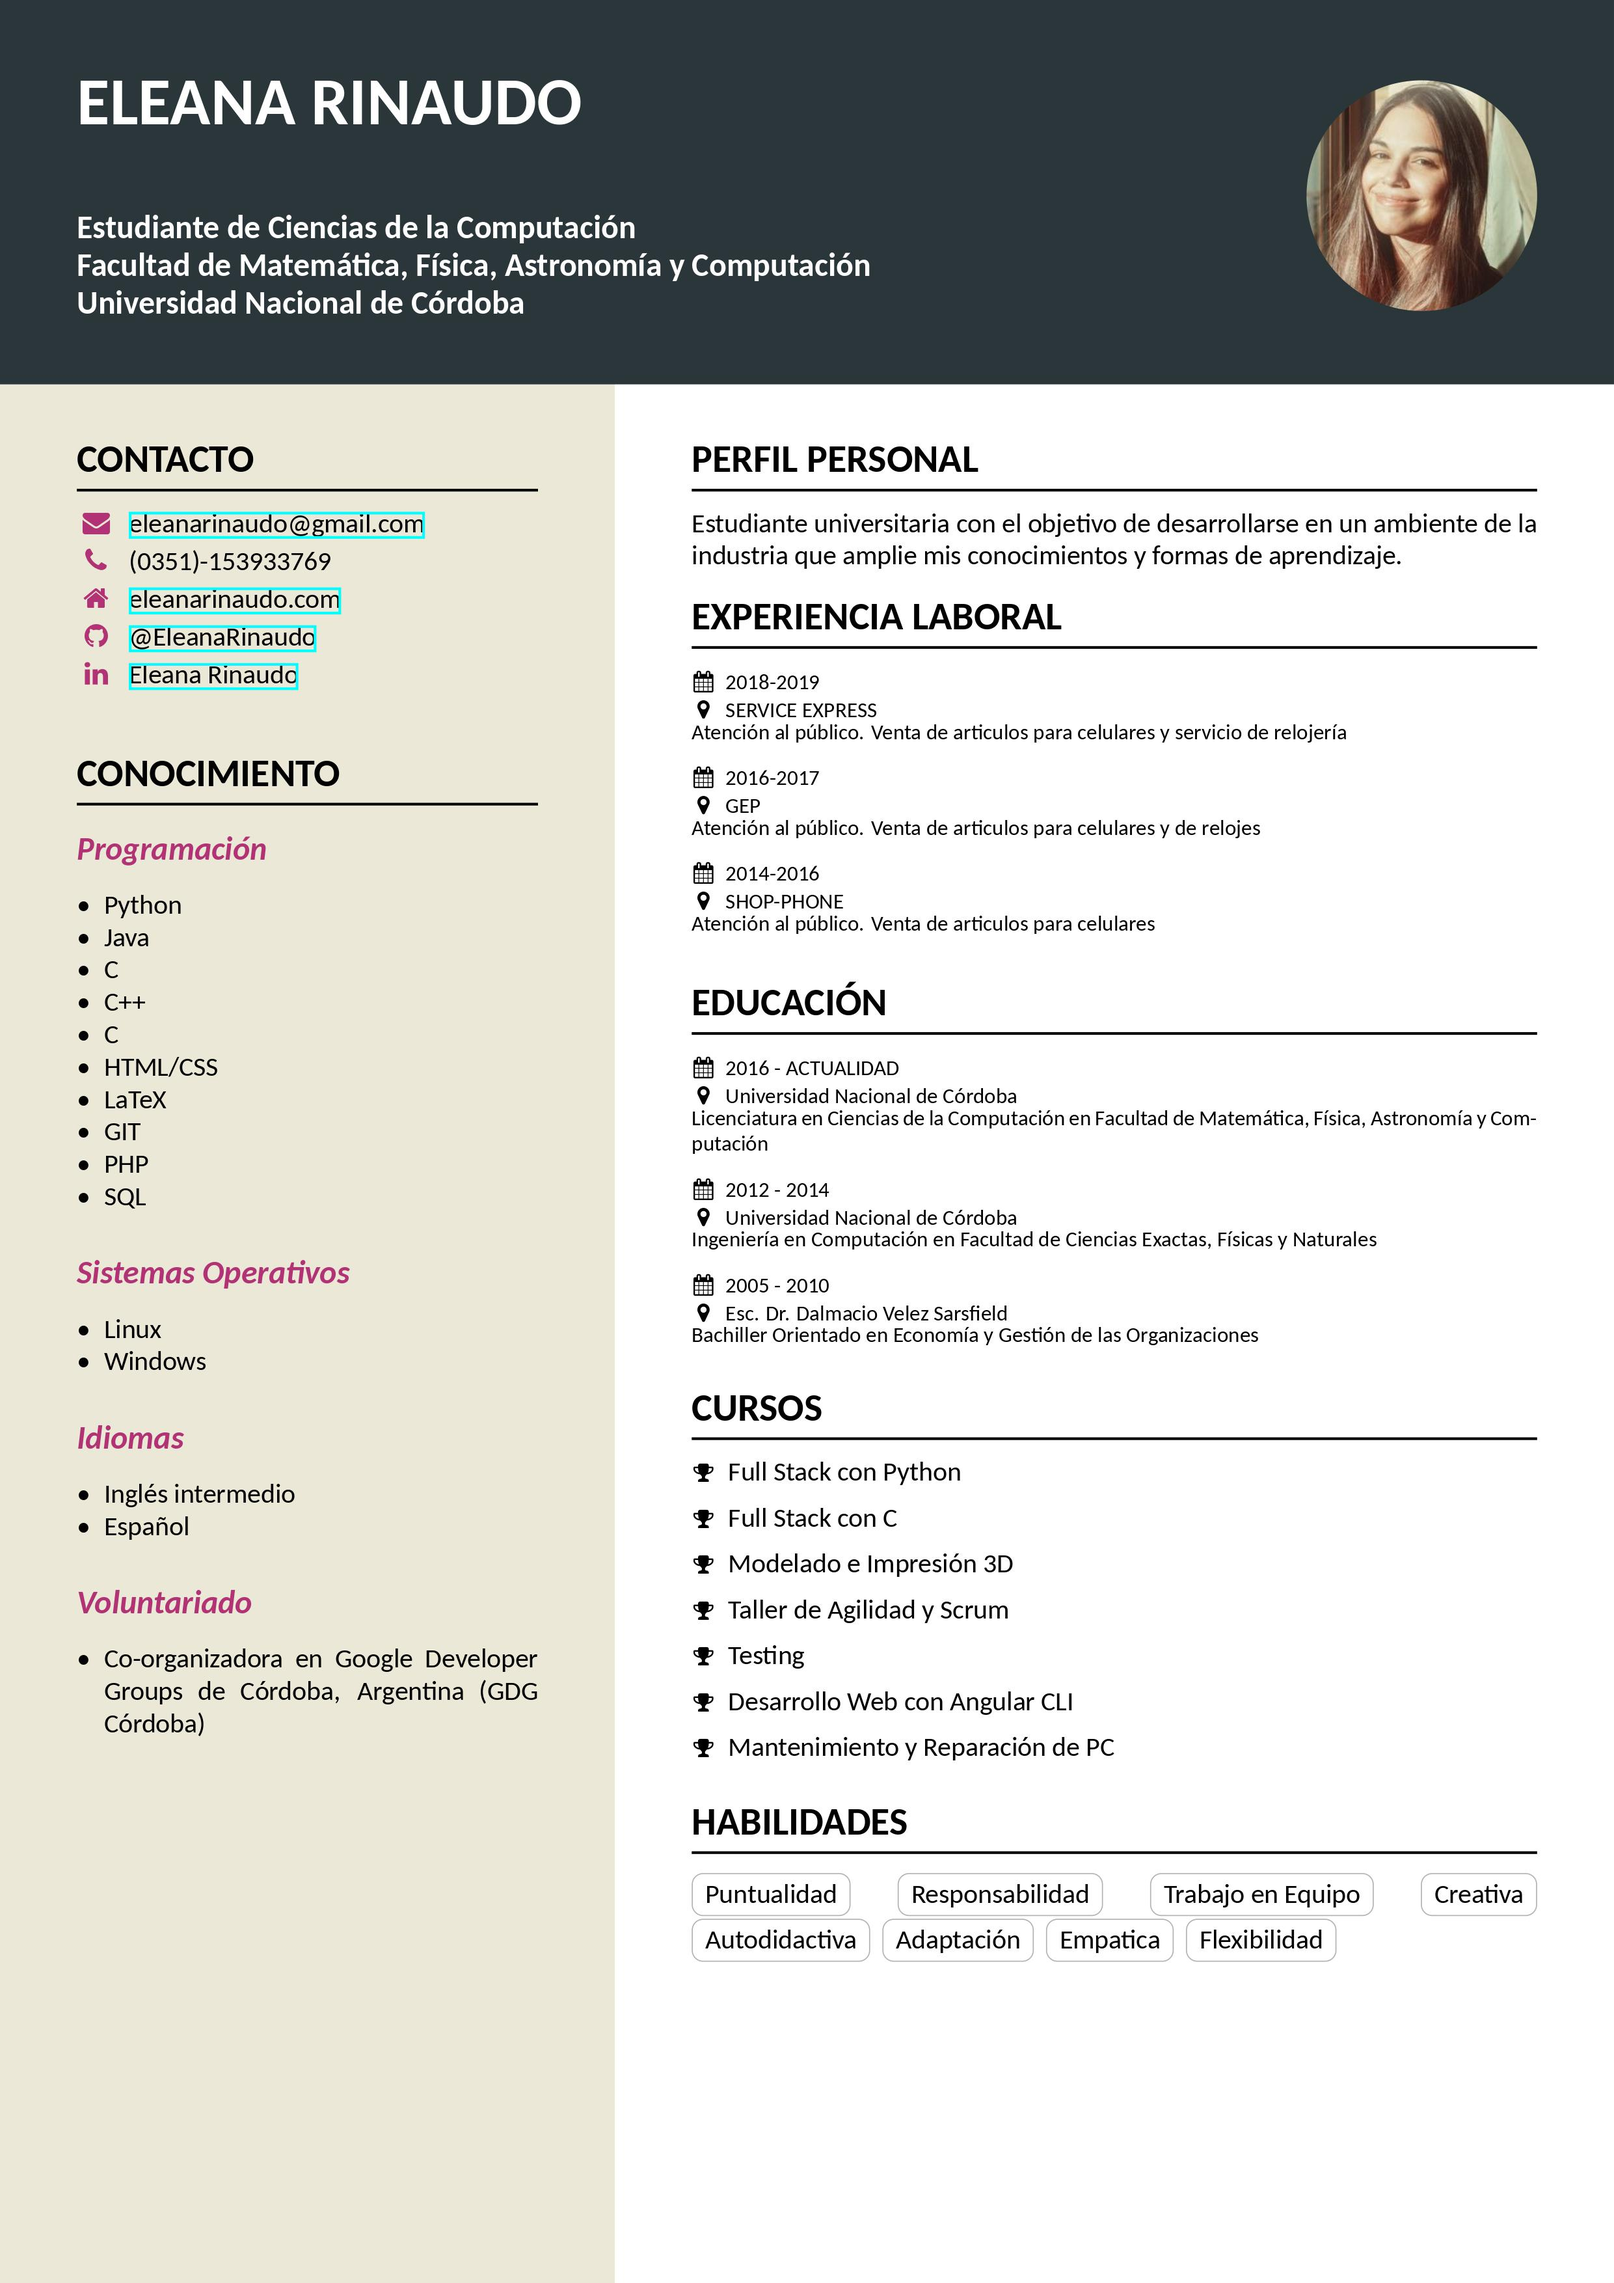
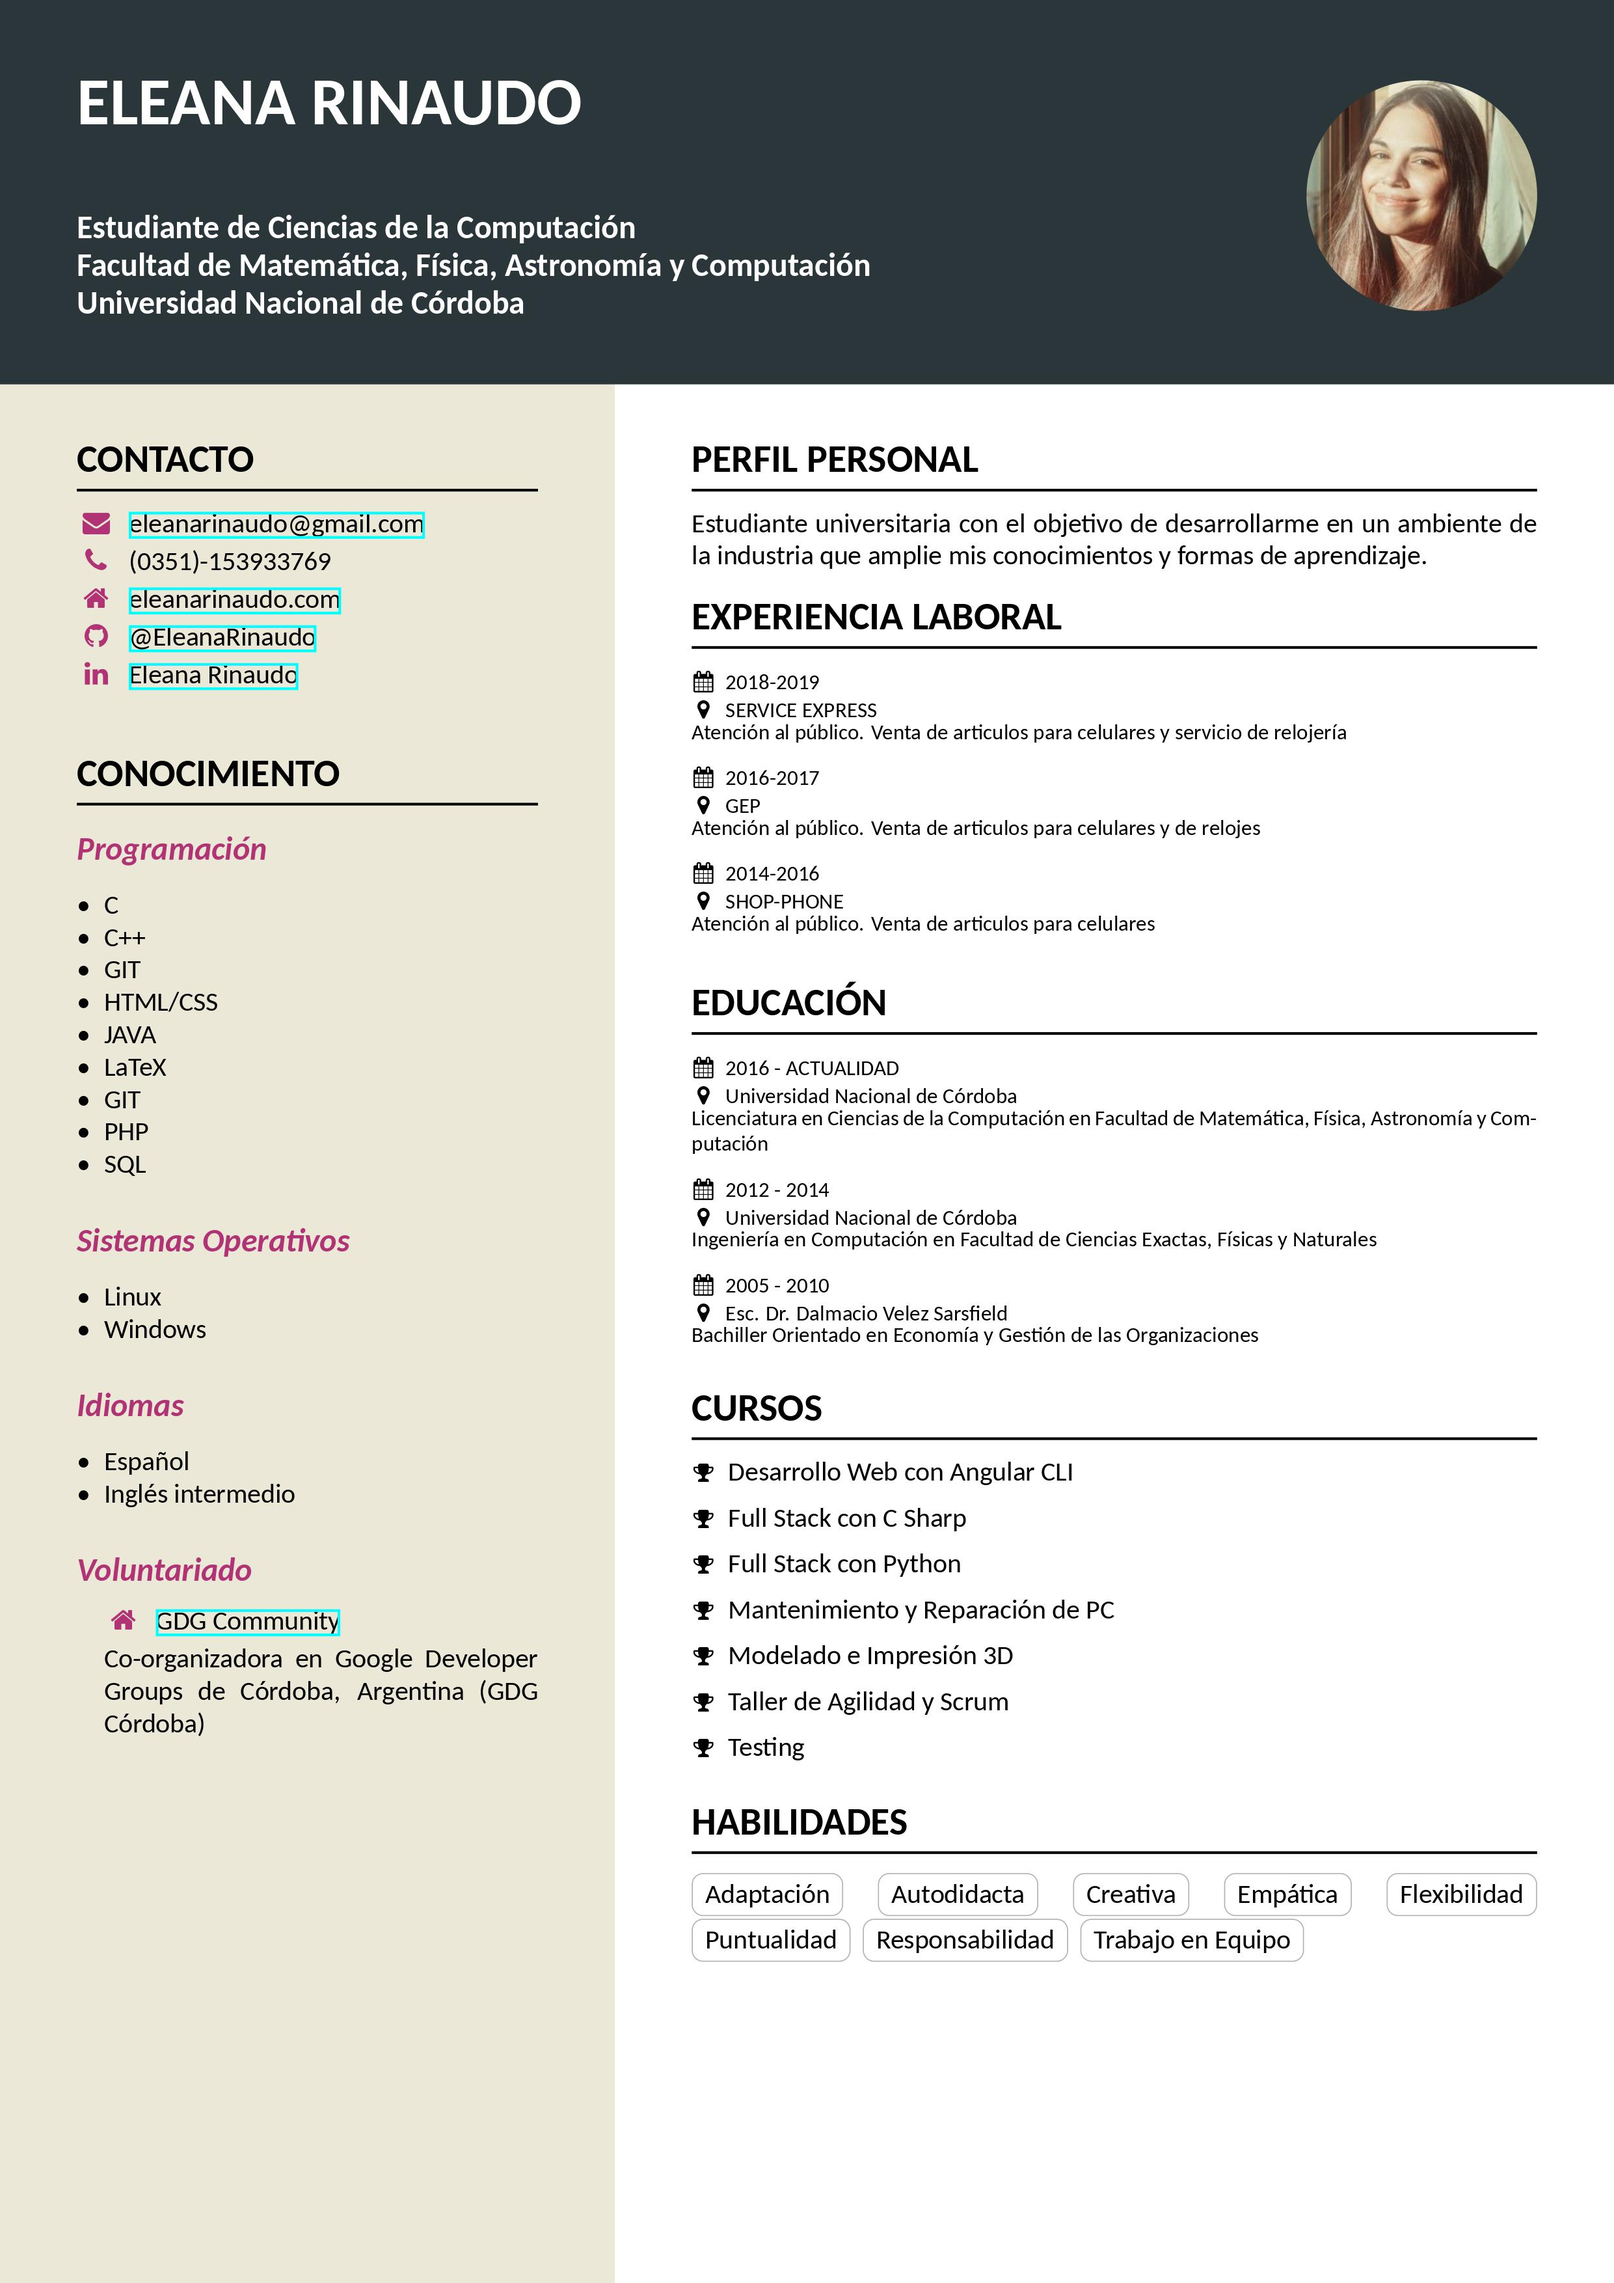
arreglando un poquillo

diff --git a/resume.tex b/resume.tex
@@ -65,16 +65,15 @@
  \section{Conocimiento}    
 \subsection{ \skillsection{Programación}}
 \begin{itemize}
-\item     Python
-\item     Java
 \item     C
 \item     C++
-\item 	C#
+\item     GIT
 \item     HTML/CSS
+\item     JAVA
 \item     LaTeX
 \item     GIT
-\item 	PHP
-\item  	SQL
+\item 	  PHP
+\item     SQL
 \end{itemize}
     
 \vspace{1.0em}
@@ -90,22 +89,23 @@
 
  
 \begin{itemize}
-\item 	Inglés intermedio
 \item 	Español
+\item 	Inglés intermedio
 \end{itemize}
  
 \vspace{1.0em}
 \subsection{ \skillsection{Voluntariado} }
  
 \begin{itemize}
-\item Co-organizadora en Google Developer Groups de Córdoba, Argentina
-(GDG Córdoba)
+    
+    \homepage{GDG Community}{https://gdg.community.dev/gdg-cordoba-argentina}
+    {Co-organizadora en Google Developer Groups de Córdoba, Argentina (GDG Córdoba)}
 \end{itemize}
 
 }
 \mainbar{
     \section{Perfil Personal}
-    Estudiante universitaria con el objetivo de desarrollarse en un ambiente de la industria que amplie mis conocimientos y formas de aprendizaje.
+    Estudiante universitaria con el objetivo de desarrollarme en un ambiente de la industria que amplie mis conocimientos y formas de aprendizaje.
    
     
     \section{Experiencia Laboral}
@@ -140,36 +140,36 @@
 Organizaciones}
 
     \section{Cursos}
+    \achievement{Desarrollo Web con Angular CLI}
+    \achievement{Full Stack con C Sharp}
     \achievement{Full Stack con Python}
-    \achievement{Full Stack con C #}
+    \achievement{Mantenimiento y Reparación de PC}
     \achievement{Modelado e Impresión 3D}
     \achievement{Taller de Agilidad y Scrum}
     \achievement{Testing}
-     \achievement{Desarrollo Web con Angular CLI}
-    \achievement{Mantenimiento y Reparación de PC}
     
     
     
     \section{Habilidades}
     \smallskip % additional skip because tag outlines use up space
+    \tag{Adaptación}
+    \tag{Autodidacta}
+    \tag{Creativa}
+    \tag{Empática}
+    \tag{Flexibilidad}
     \tag{Puntualidad}
     \tag{Responsabilidad}
     \tag{Trabajo en Equipo}
-    \tag{Creativa}
-    \tag{Autodidactiva}
-    \tag{Adaptación}
-    \tag{Empatica}
-    \tag{Flexibilidad}
 
     
 
     }
-}
+
 \makebody
 \clearpage
 
 
 \pagestyle{highlightmain}
 \highlightbar{}
-\mainbar{
+\mainbar
 \end{document}
